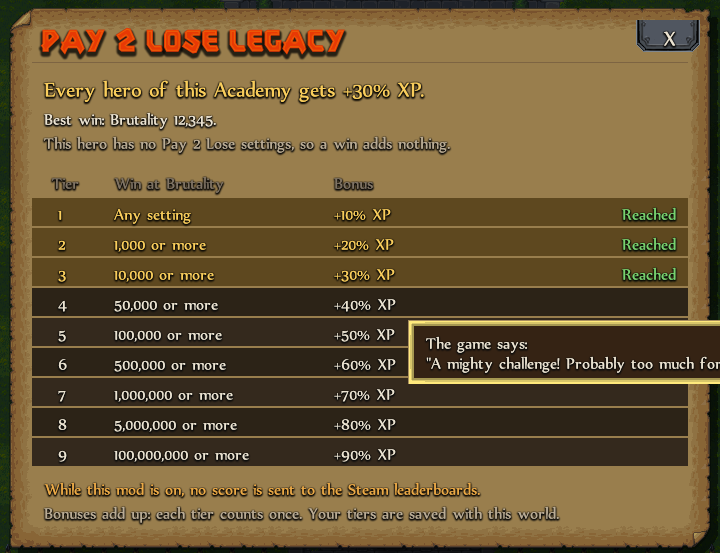
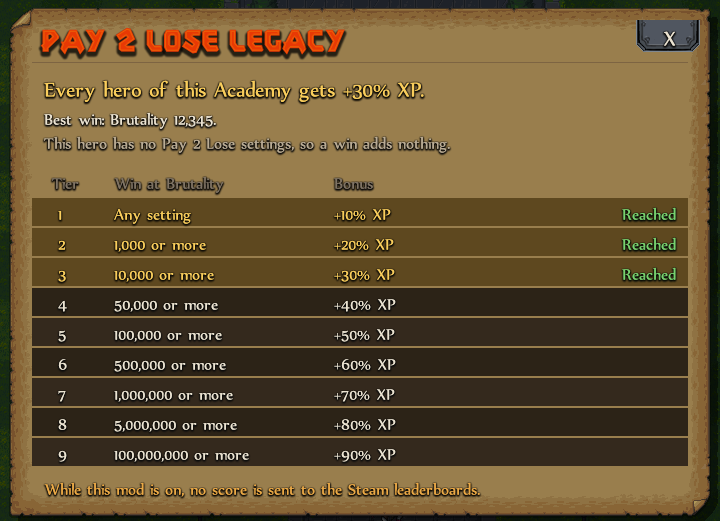
P2L window: remove the footer line about bonuses adding up, smaller window

diff --git a/LegacyWindow.cs b/LegacyWindow.cs
@@ -88,7 +88,7 @@ internal static class LegacyWindow
 	private static void Draw(dmGame g)
 	{
 		g.theRenderer.BeginSpriteBatch();
-		Rectangle c = Ui.ModalWindow("p2l_legacy", 22, 17, "Pay 2 Lose legacy", Close);
+		Rectangle c = Ui.ModalWindow("p2l_legacy", 22, 16, "Pay 2 Lose legacy", Close);
 		int x = c.X + 8, y = c.Y + 4;
 		bool on = Config.On(Config.Legacy);
 		int tiers = Legacy.TiersReached;
@@ -156,7 +156,6 @@ internal static class LegacyWindow
 		{
 			Ui.Text("The mod is off in Mod Settings: no XP bonus, and scores are sent as usual.", x, fy, Palette.Warn);
 		}
-		Ui.Text("Bonuses add up: each tier counts once. Your tiers are saved with this world.", x, fy + 24, Palette.TextDim);
 		g.theRenderer.EndSpriteBatch();
 	}
 
